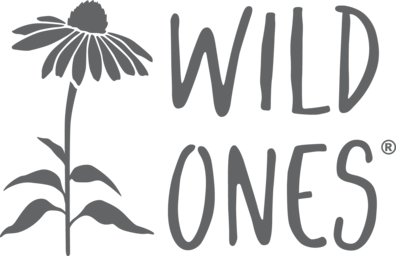
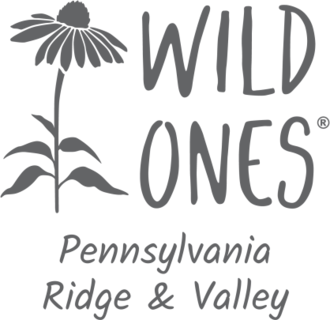
feat(wildones): swap in the chapter lockup, and stop saying its name twice
Frank supplied the real Pennsylvania Ridge & Valley lockup. It is not a drop-in
replacement for the national mark: the aspect ratio goes from 1.55:1 to 1.03:1,
and the chapter name is now set inside the artwork rather than sitting beside it.
Both facts change the layout.

Sizes went up again. The "Pennsylvania Ridge & Valley" script occupies the bottom
third of a near-square mark, so at the 32px I had in the headers its cap height
would be about four pixels. Headers are now 64px, banners 76px.

Copy came down, because the mark now says what the copy said. The banner sub-line
dropped the full chapter name and reads "Chapter 2751. Membership dues fund this
work." The volunteer board header and the kiosk lost their captions entirely, and
the alt text carries the name for anyone not seeing the image.

The volunteer board header is now a co-brand: the chapter lockup sits opposite
the Ecotopia wordmark instead of underneath it, which is what .pub-header's
existing space-between was already set up to do. Its banner lost its own copy of
the mark, since the header shows it a hundred pixels above and twice on one
screen is once too many.

diff --git a/volunteer-board.html b/volunteer-board.html
@@ -32,12 +32,9 @@
   }
   .pub-logo { font-family: 'Fraunces', serif; font-size: 1.2rem; color: var(--sage); font-weight: 700; }
   .pub-tagline { font-size: 0.8rem; color: rgba(216,243,220,0.7); margin-top: 2px; }
-  .pub-chapter {
-    display: inline-flex; align-items: center; gap: 6px; margin-top: 6px;
-    font-size: 0.75rem; color: rgba(216,243,220,0.85); text-decoration: none;
-  }
-  .pub-chapter:hover { color: #fff; }
-  .pub-chapter img { height: 32px; width: auto; }
+  .pub-chapter { display: inline-flex; flex-shrink: 0; text-decoration: none; }
+  .pub-chapter img { height: 64px; width: auto; display: block; }
+  @media (max-width: 480px) { .pub-chapter img { height: 48px; } }
   .wo-banner {
     display: flex; align-items: center; gap: 16px; flex-wrap: wrap;
     background: #fff; border: 1px solid var(--cream-dim);
@@ -135,20 +132,18 @@
   <div>
     <div class="pub-logo">🌿 Ecotopia Earthcare</div>
     <div class="pub-tagline">Community Garden Program</div>
-    <a class="pub-chapter" href="https://join.wildones.org/?chapter=2751" target="_blank" rel="noopener">
-      <img src="assets/img/wildones-chapter-light.png" alt="" onerror="this.style.display='none'">
-      <span>A Wild Ones PA Ridge and Valley program</span>
-    </a>
   </div>
+  <a class="pub-chapter" href="https://join.wildones.org/?chapter=2751" target="_blank" rel="noopener">
+    <img src="assets/img/wildones-chapter-light.png" alt="Wild Ones Pennsylvania Ridge and Valley" onerror="this.style.display='none'">
+  </a>
 </div>
 
 <div class="container">
   <h1>Open Responsibilities</h1>
   <div class="wo-banner">
-    <img class="wo-banner-mark" src="assets/img/wildones-chapter.png" alt="Wild Ones PA Ridge and Valley" onerror="this.style.display='none'">
     <div class="wo-banner-text">
       <p class="wo-banner-lead">Volunteering here is Wild Ones PA Ridge and Valley work.</p>
-      <p class="wo-banner-sub">Wild Ones Pennsylvania Ridge and Valley chapter 2751. Membership dues fund this work.</p>
+      <p class="wo-banner-sub">Chapter 2751. Membership dues fund this work.</p>
     </div>
     <a class="wo-banner-cta" href="https://join.wildones.org/?chapter=2751" target="_blank" rel="noopener">Join Wild Ones</a>
   </div>

diff --git a/qr-checkin.html b/qr-checkin.html
@@ -39,11 +39,8 @@
   }
   .garden-header h1 { font-family: 'Fraunces', serif; font-size: 1.5rem; margin-bottom: 6px; }
   .garden-header .date { font-size: 0.9rem; opacity: 0.8; }
-  .garden-chapter {
-    display: inline-flex; align-items: center; gap: 6px; margin-top: 10px;
-    font-size: 0.78rem; color: rgba(255,255,255,0.88); text-decoration: none;
-  }
-  .garden-chapter img { height: 32px; width: auto; }
+  .garden-chapter { display: inline-block; margin-top: 14px; text-decoration: none; }
+  .garden-chapter img { height: 64px; width: auto; display: block; }
 
   /* Path selection */
   .path-cards { display: grid; grid-template-columns: 1fr 1fr; gap: 12px; margin-bottom: 24px; }
@@ -198,8 +195,7 @@ function renderMain() {
       <h1>${esc(garden.name)}</h1>
       <div class="date">${todayStr}</div>
       <a class="garden-chapter" href="https://join.wildones.org/?chapter=2751" target="_blank" rel="noopener">
-        <img src="assets/img/wildones-chapter-light.png" alt="" onerror="this.style.display='none'">
-        <span>A Wild Ones PA Ridge and Valley garden</span>
+        <img src="assets/img/wildones-chapter-light.png" alt="Wild Ones Pennsylvania Ridge and Valley" onerror="this.style.display='none'">
       </a>
     </div>
 

diff --git a/assets/site.js b/assets/site.js
@@ -435,7 +435,7 @@
 
   function wildOnesMark(cls, light) {
     const src = light ? WILDONES.logoLight : WILDONES.logo;
-    return '<img class="' + cls + '" src="' + src + '" alt="' + esc(WILDONES.shortName) +
+    return '<img class="' + cls + '" src="' + src + '" alt="' + esc(WILDONES.name) +
            '" loading="lazy" decoding="async" onerror="' + WO_FALLBACK + '">';
   }
 
@@ -454,7 +454,7 @@
              wildOnesMark('wo-banner-mark') +
              '<div class="wo-banner-text">' +
                '<p class="wo-banner-lead">' + esc(text) + '</p>' +
-               '<p class="wo-banner-sub">' + esc(WILDONES.name) + ' chapter ' + esc(WILDONES.chapter) + '. ' +
+               '<p class="wo-banner-sub">Chapter ' + esc(WILDONES.chapter) + '. ' +
                  'Membership dues fund this work.</p>' +
              '</div>' +
              '<a class="wo-banner-cta" href="' + WILDONES.join + '" target="_blank" rel="noopener">Join Wild Ones</a>' +

diff --git a/assets/site.css b/assets/site.css
@@ -114,7 +114,7 @@ h1, h2, h3 { line-height: 1.15; margin: 0 0 0.5em; }
   text-decoration: none; color: inherit;
 }
 .wo-line:hover { text-decoration: underline; }
-.wo-line-mark { height: 32px; width: auto; flex-shrink: 0; }
+.wo-line-mark { height: 52px; width: auto; flex-shrink: 0; }
 
 /* Chapter banner for the pages that ARE chapter work. */
 .wo-banner {
@@ -123,7 +123,7 @@ h1, h2, h3 { line-height: 1.15; margin: 0 0 0.5em; }
   border-left: 4px solid var(--amber, #c98a1b);
   border-radius: 12px; padding: 16px 18px; margin: 0 0 26px;
 }
-.wo-banner-mark { height: 64px; width: auto; flex-shrink: 0; }
+.wo-banner-mark { height: 76px; width: auto; flex-shrink: 0; }
 .wo-banner-text { flex: 1 1 260px; min-width: 0; }
 .wo-banner-lead {
   font-family: var(--font-util); font-weight: 600; font-size: 0.98rem;
